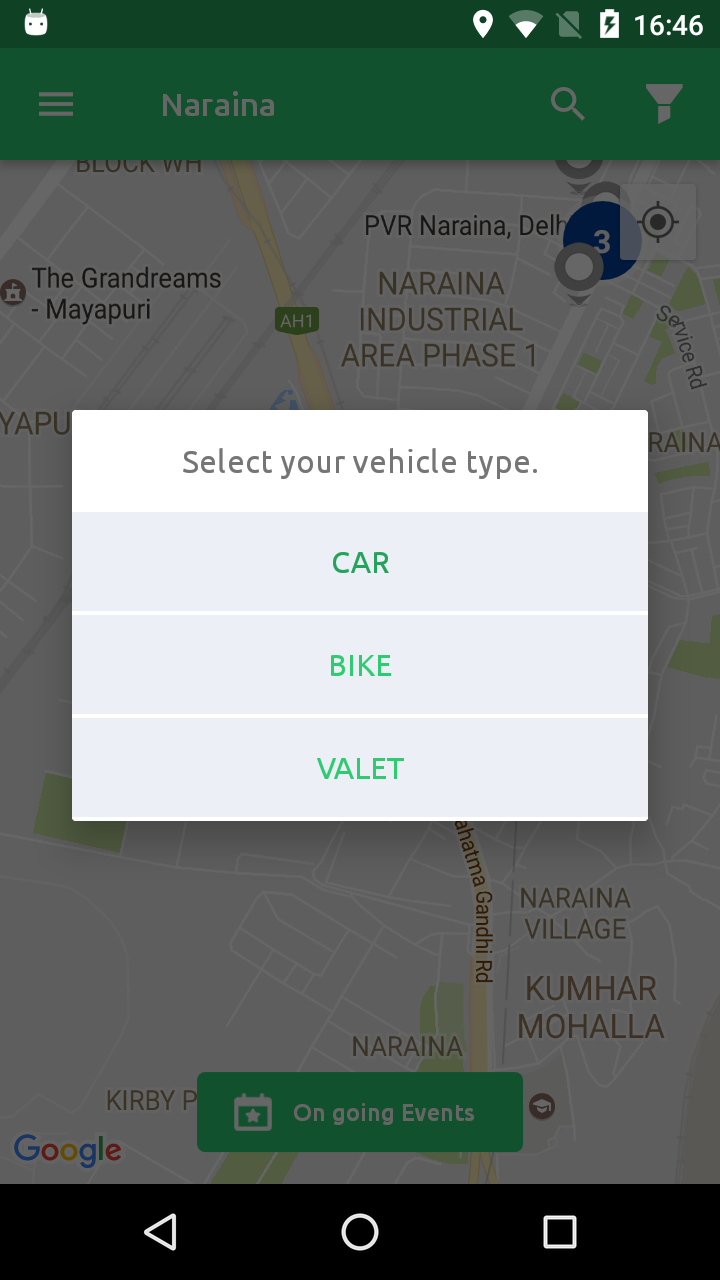
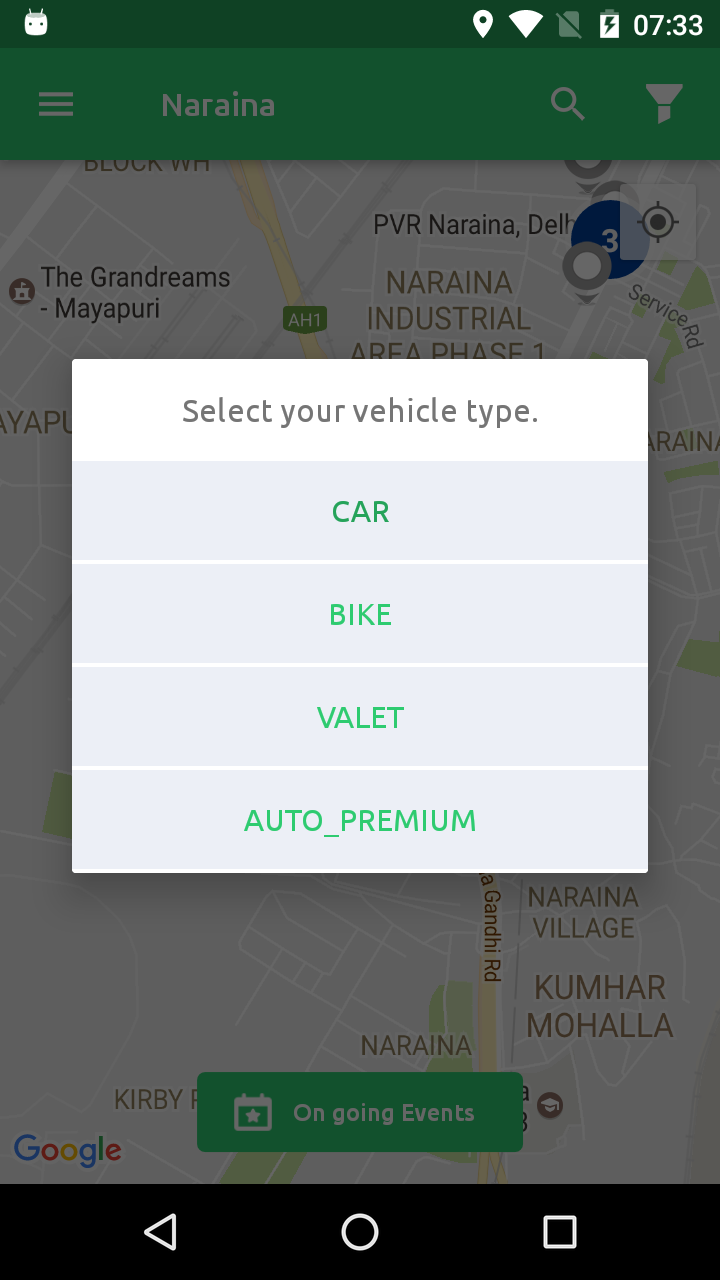
Handle new entry in Filter Window

diff --git a/src/com/MG/testcases/testHomeSmoke.java b/src/com/MG/testcases/testHomeSmoke.java
@@ -133,8 +133,8 @@ public static AndroidDriver driver;
 		WebElement bar1 = driver.findElement(By.id("com.gmpuser.app:id/rv_filters"));
 		List<WebElement> bar2 = bar1.findElements(By.className("android.widget.LinearLayout"));		
 		
-		String ExpectedList[] = {"CAR","BIKE","VALEET"};
-		String[] ActualList = new String[3];
+		String ExpectedList[] = {"CAR","BIKE","VALET","AUTO_PREMIUM"};
+		String[] ActualList = new String[4];
 
 		for (int i = 0; i < bar2.size(); i++) {
 		//	System.out.println(bar2.get(i).findElement(By.id("com.gmpuser.app:id/tv_sublot_name")).getText());
